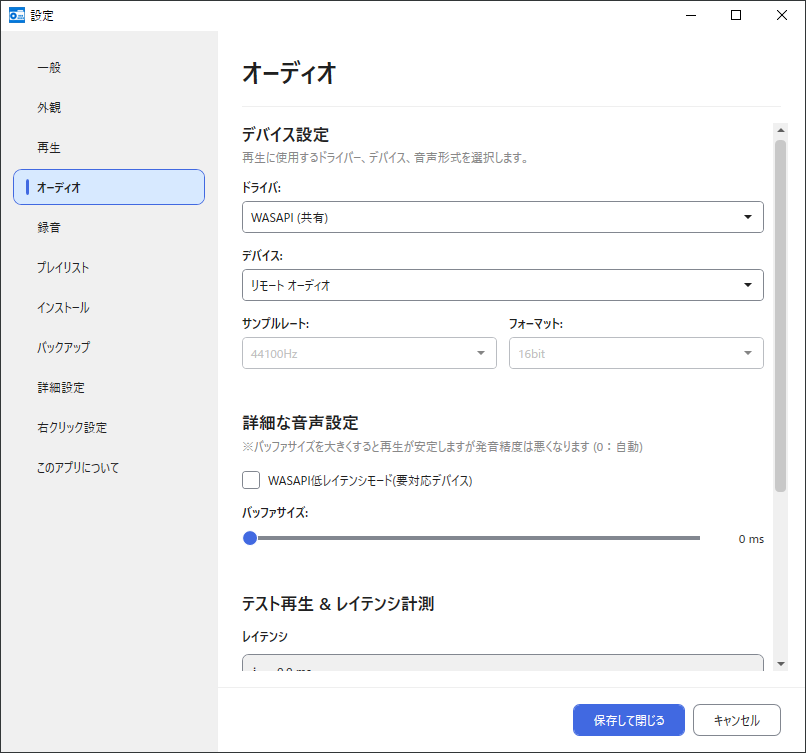
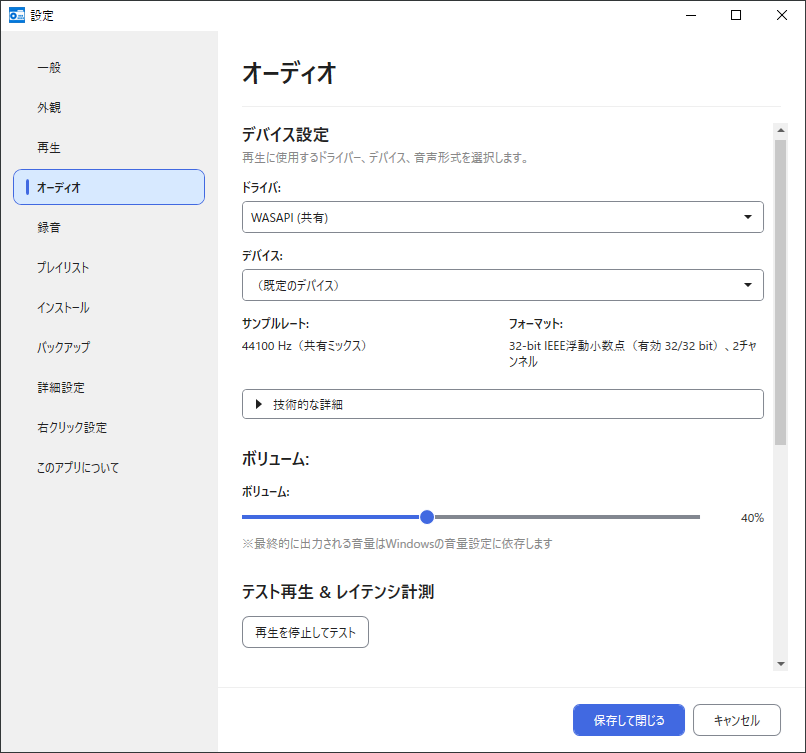
docs: オーディオ設定のスクリーンショットを復元する
- 更新したオーディオ設定画像を日英マニュアルへ掲載する
- 公開サイト用HTMLを再生成し、画像参照と文書の整合を確認する

diff --git a/docs/manual.ja.html b/docs/manual.ja.html
@@ -847,6 +847,7 @@ hr {
 <p>譜面を再生するプレイヤーを選択します。内蔵プレイヤーは音声のみの簡易再生用です。uBMplay、BMIIDXView2015、LR2 など外部プレイヤーを使う場合は、実行ファイルのパスを指定します。</p>
 <p>スタンドアローンモードでも、再生用アプリとして LR2body を指定できます。これは LR2 の DB と連携するかどうかとは別の設定です。</p>
 <h3 id="オーディオ">オーディオ</h3>
+<p><img alt="設定 オーディオ" src="img/設定_オーディオ.PNG"/></p>
 <p>内蔵プレイヤーの出力方式、デバイス、サンプルレート、フォーマット、音量を設定します。出力方式は <code>WASAPI (共有)</code>（既定）、<code>WASAPI (排他)</code>、<code>ASIO</code> から選べます。方式とデバイスを選ぶと対応情報が表示されます。ドライバまたはデバイスを変更すると、サンプルレートとフォーマットは「自動」に戻ります。サンプルレートを変更するとフォーマットだけが「自動」に戻ります。</p>
 <p><code>再生を停止してテスト</code> を押すと、現在の再生を停止し、編集中の出力設定をテストできます。終了まで設定画面の操作はできません。結果を確認し、使いたい設定を <code>保存して閉じる</code> で保存してください。音が出ない場合は <a href="#音声の再生変換に失敗する">音声の再生・変換に失敗する</a> を参照してください。</p>
 <p>詳細な音声設定では、方式に応じた低遅延設定とバッファサイズを調整できます。バッファを小さくすると遅延が減る一方、音切れしやすくなります。</p>

diff --git a/docs/manual.html b/docs/manual.html
@@ -845,6 +845,7 @@ Depending on library size, disk speed, and Everything availability, this may tak
 <p>Select the player used to play charts. The built-in player is for simple audio-only preview playback. When using external players such as uBMplay, BMIIDXView2015, or LR2, specify the executable path.</p>
 <p>Even in standalone mode, you can specify LR2body as the playback application. This is separate from whether the application integrates with the LR2 DB.</p>
 <h3 id="audio">Audio</h3>
+<p><img alt="Audio Settings" src="img/設定_オーディオ.PNG"/></p>
 <p>Configure the internal player's output driver, device, sample rate, format, and volume. Choose <code>WASAPI (Shared)</code> (default), <code>WASAPI (Exclusive)</code>, or <code>ASIO</code>. Selecting a driver and device displays their capabilities. Changing the driver or device resets sample rate and format to Auto; changing the sample rate resets only the format to Auto.</p>
 <p>Click <code>Stop playback and test</code> to stop current playback and test the output settings being edited. Settings controls are unavailable until the test finishes. Review the result and save the settings you want with <code>Save and close</code>. For problems, see <a href="#audio-playback-or-conversion-fails">Audio Playback or Conversion Fails</a>.</p>
 <p>Advanced audio settings let you adjust low latency and buffer size for the selected driver. Smaller buffers reduce latency but may cause audio dropouts.</p>

diff --git a/docs/manual.ja.md b/docs/manual.ja.md
@@ -217,6 +217,8 @@ beatoraja ディレクトリを指定すると、直下の `config_sys.json` か
 
 ### オーディオ
 
+![設定 オーディオ](img/設定_オーディオ.PNG)
+
 内蔵プレイヤーの出力方式、デバイス、サンプルレート、フォーマット、音量を設定します。出力方式は `WASAPI (共有)`（既定）、`WASAPI (排他)`、`ASIO` から選べます。方式とデバイスを選ぶと対応情報が表示されます。ドライバまたはデバイスを変更すると、サンプルレートとフォーマットは「自動」に戻ります。サンプルレートを変更するとフォーマットだけが「自動」に戻ります。
 
 `再生を停止してテスト` を押すと、現在の再生を停止し、編集中の出力設定をテストできます。終了まで設定画面の操作はできません。結果を確認し、使いたい設定を `保存して閉じる` で保存してください。音が出ない場合は [音声の再生・変換に失敗する](#音声の再生変換に失敗する) を参照してください。

diff --git a/docs/manual.md b/docs/manual.md
@@ -216,6 +216,8 @@ Even in standalone mode, you can specify LR2body as the playback application. Th
 
 ### Audio
 
+![Audio Settings](img/設定_オーディオ.PNG)
+
 Configure the internal player's output driver, device, sample rate, format, and volume. Choose `WASAPI (Shared)` (default), `WASAPI (Exclusive)`, or `ASIO`. Selecting a driver and device displays their capabilities. Changing the driver or device resets sample rate and format to Auto; changing the sample rate resets only the format to Auto.
 
 Click `Stop playback and test` to stop current playback and test the output settings being edited. Settings controls are unavailable until the test finishes. Review the result and save the settings you want with `Save and close`. For problems, see [Audio Playback or Conversion Fails](#audio-playback-or-conversion-fails).
